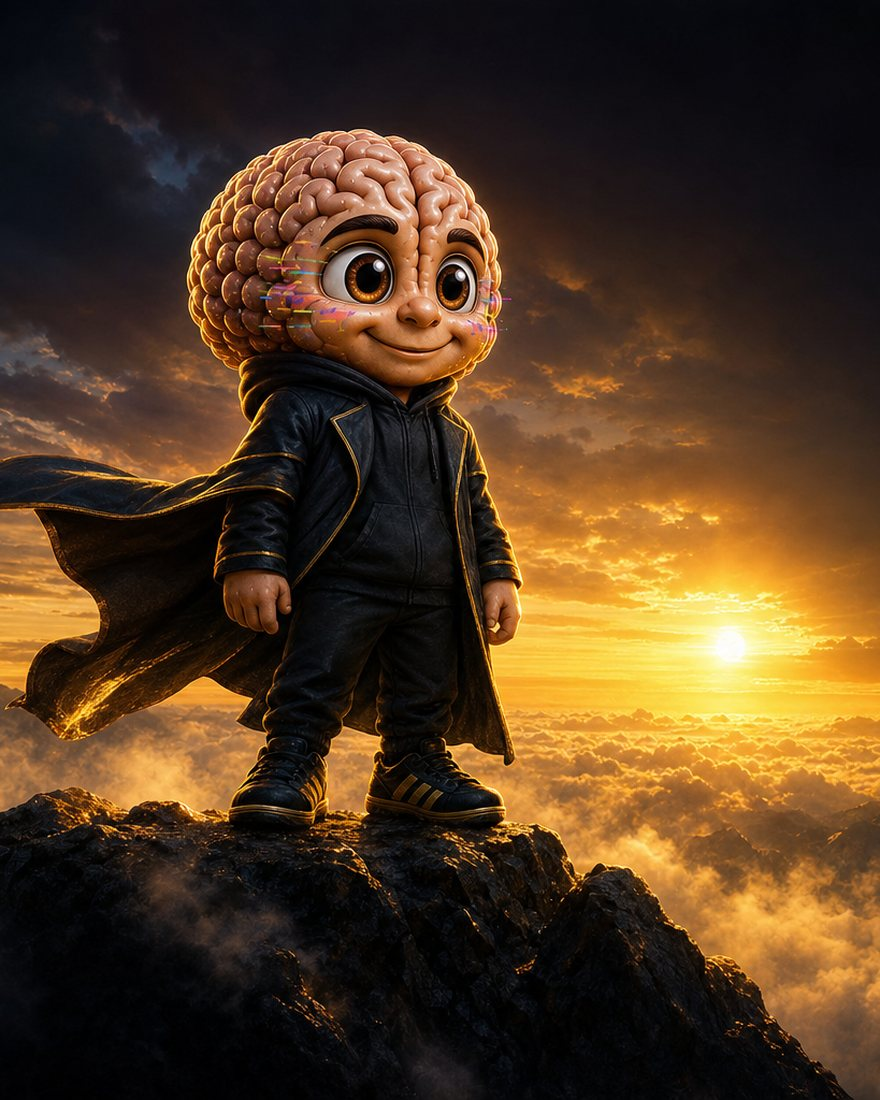
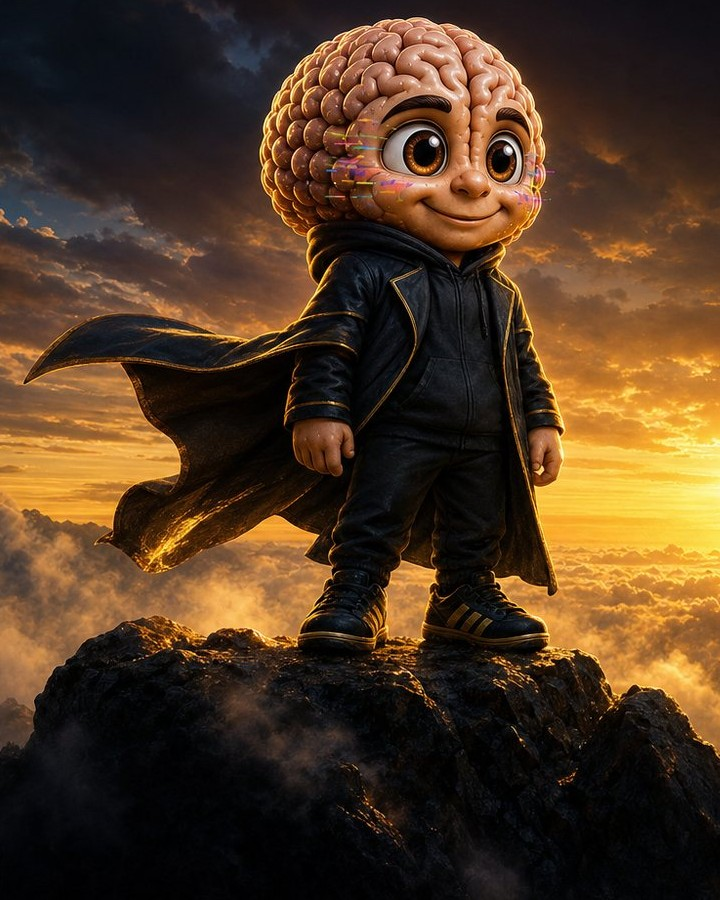
Dashboard: Bilder randlos — Handy-Querformat, linke Wash-Kante, Mantel-Crop
Die 2:1-Keyarts sind aus 3:2-Originalen verbreitert; die angesetzten Flaechen
(links ~12%, rechts 27-32%) lagen ohne Text-Scrim nackt da.

- Mobile-Breakpoints zusaetzlich fuer (orientation:landscape) and (max-height:520px)
  — ein iPhone Pro Max ist quer 932px breit und lief bisher im Desktop-Layout
- eigene Querformat-Zuschnitte hero-v3l / band-*-l (1536x768, direkt aus
  assets-src/hero, ohne Wash) via <source media=...> plus transform:none
- Desktop/Tablet: hero img scale(1.136), band img scale(1.12), origin rechts —
  schneidet die linke Wash weg, Figuren bleiben komplett
- hero-v3m neu aus hero-summit.png (720x900): Mantel war links angeschnitten
- linke Kantenverlaeufe .hero::after/.band::after von 9/27% auf 5%
- untere Ausblendung mobil auf 66%/97%

diff --git a/dashboard/index.html b/dashboard/index.html
@@ -192,6 +192,15 @@
        ultrawide screens. */
     .hero picture{display:block;width:100%}
     .hero img{width:100%;height:auto;display:block}
+    /* The wide keyart carries ~12% of flat, textureless wash on its left edge —
+       on screen that reads as a black border instead of a full-bleed image.
+       Zoom from the right edge so that strip is clipped away; the ~7% that goes
+       over top and bottom is empty sky and the rock base that the bottom fade
+       swallows anyway. Only for the wide art — the -m crop below 641px has no
+       wash and would lose the cape. */
+    @media (min-width:641px){
+      .hero img{transform:scale(1.136);transform-origin:100% 50%}
+    }
     /* Headline sits in the right third — the art is composed with the figure
        left and that side deliberately calm. The scrim guarantees contrast even
        if a future hero image is brighter there. */
@@ -232,7 +241,10 @@
        2:1 crop is only ~195px tall on a phone, so overlaid text spilled out of
        the image and collided with the stat bar. A portrait crop is served
        instead and the overlay is taken out of absolute positioning. */
-    @media (max-width:900px){
+    /* Phone in landscape: the viewport is wider than 900 but only ~430 tall,
+       so the desktop overlay layout kicked in and the hero/band edge fades read
+       as black bars. Short landscape viewports get the mobile treatment. */
+    @media (max-width:900px), (orientation:landscape) and (max-height:520px){
       .hero-ov{position:static;background:none;display:block}
       .hero-in{justify-content:center;padding:0 20px}
       .hero-tx{max-width:560px;text-align:center;padding:22px 0 4px;margin:0 auto}
@@ -242,7 +254,7 @@
       .hero::before{display:none}
       .hero picture{position:relative}
       .hero picture::after{content:'';position:absolute;inset:0;pointer-events:none;
-        background:linear-gradient(to bottom,rgba(12,11,12,0) 74%,var(--bg) 100%)}
+        background:linear-gradient(to bottom,rgba(12,11,12,0) 66%,var(--bg) 97%)}
     }
     @media (max-width:480px){
       .hero-h{font-size:1.6rem}
@@ -251,7 +263,7 @@
     }
     /* Fades all four edges into the page so the widened canvas has no seam. */
     .hero::after{content:'';position:absolute;inset:0;pointer-events:none;background:
-      linear-gradient(to right,var(--bg) 0%,var(--bg) 9%,rgba(10,8,20,0) 27%),
+      linear-gradient(to right,var(--bg) 0%,rgba(10,8,20,0) 5%),
       linear-gradient(to left,var(--bg) 0%,rgba(10,8,20,0) 17%),
       linear-gradient(to bottom,rgba(10,8,20,0) 72%,var(--bg) 100%)}
 
@@ -557,8 +569,12 @@
     .band{position:relative;width:100%;overflow:hidden}
     .band picture{display:block;width:100%}
     .band img{width:100%;height:auto;display:block}
+    /* Same left-edge wash as the hero art — clipped the same way. */
+    @media (min-width:641px){
+      .band img{transform:scale(1.12);transform-origin:100% 50%}
+    }
     .band::after{content:'';position:absolute;inset:0;pointer-events:none;background:
-      linear-gradient(to right,var(--bg) 0%,var(--bg) 9%,rgba(10,8,20,0) 27%),
+      linear-gradient(to right,var(--bg) 0%,rgba(10,8,20,0) 5%),
       linear-gradient(to left,var(--bg) 0%,rgba(10,8,20,0) 17%),
       linear-gradient(to bottom,var(--bg) 0%,rgba(10,8,20,0) 20%,rgba(10,8,20,0) 74%,var(--bg) 100%)}
     .band-ov{position:absolute;inset:0;z-index:3;display:flex;align-items:center;
@@ -573,7 +589,7 @@
     .burn-lead{color:var(--muted);font-size:.87rem;line-height:1.75;margin-top:14px}
     /* Same reason as the hero: a 2:1 band is only ~195px tall on a phone, far
        too short to hold the heading plus lead. Copy drops below the art. */
-    @media (max-width:900px){
+    @media (max-width:900px), (orientation:landscape) and (max-height:520px){
       .band-ov{position:static;background:none;display:block}
       .band-in{justify-content:center;padding:0 20px}
       .band-tx{max-width:560px;text-align:center;padding:20px 0 4px;margin:0 auto}
@@ -583,8 +599,14 @@
       .band::after{display:none}
       .band picture{position:relative}
       .band picture::after{content:'';position:absolute;inset:0;pointer-events:none;
-        background:linear-gradient(to bottom,rgba(12,11,12,0) 72%,var(--bg) 100%)}
+        background:linear-gradient(to bottom,rgba(12,11,12,0) 66%,var(--bg) 97%)}
       .burn-lead{margin-left:auto;margin-right:auto}
+    }
+    /* Phone in landscape gets its own 2:1 crop cut straight from the source art
+       (…-l.webp). It has no widened canvas, so the zoom-crop that hides the wash
+       on the desktop files would only throw picture away here. */
+    @media (orientation:landscape) and (max-height:520px){
+      .hero img,.band img{transform:none}
     }
 
     /* ECOSYSTEM — the sub-apps, promoted out of the footer chip row */
@@ -664,7 +686,7 @@
     .lr-sm a{font-size:.68rem;padding:5px 12px;gap:5px;opacity:.85}
     .lr-sm img{width:15px;height:15px}
 
-    @media(max-width:900px){
+    @media (max-width:900px), (orientation:landscape) and (max-height:520px){
       .sg{grid-template-columns:repeat(3,1fr)}
       .tg4,.fl{grid-template-columns:repeat(2,1fr)}
       .fa{display:none}
@@ -753,8 +775,12 @@
 
   <section class="hero">
     <picture>
-      <source media="(max-width:640px)" srcset="hero-v3m.webp" type="image/webp">
-      <source media="(max-width:640px)" srcset="hero-v3m.jpg" type="image/jpeg">
+      <!-- Handy quer: eigener 2:1-Zuschnitt aus dem Original, ohne die
+           kuenstlich verbreiterten Raender des Desktop-Bildes. -->
+      <source media="(orientation:landscape) and (max-height:520px)" srcset="hero-v3l.webp" type="image/webp">
+      <source media="(orientation:landscape) and (max-height:520px)" srcset="hero-v3l.jpg" type="image/jpeg">
+      <source media="(max-width:640px)" srcset="hero-v3m.webp?v=5" type="image/webp">
+      <source media="(max-width:640px)" srcset="hero-v3m.jpg?v=5" type="image/jpeg">
       <source srcset="hero-v3.webp?v=4" type="image/webp">
       <img src="hero-v3.jpg?v=4" alt="BOBAI — Where Memes Meet Intelligence" fetchpriority="high">
     </picture>
@@ -876,6 +902,8 @@
 
   <div class="band" id="burns">
     <picture>
+      <source media="(orientation:landscape) and (max-height:520px)" srcset="band-forge-l.webp" type="image/webp">
+      <source media="(orientation:landscape) and (max-height:520px)" srcset="band-forge-l.jpg" type="image/jpeg">
       <source media="(max-width:640px)" srcset="band-forge-m.webp" type="image/webp">
       <source media="(max-width:640px)" srcset="band-forge-m.jpg" type="image/jpeg">
       <source srcset="band-forge.webp" type="image/webp">
@@ -1014,6 +1042,8 @@
 
   <div class="band" id="ecosystem">
     <picture>
+      <source media="(orientation:landscape) and (max-height:520px)" srcset="band-command-l.webp" type="image/webp">
+      <source media="(orientation:landscape) and (max-height:520px)" srcset="band-command-l.jpg" type="image/jpeg">
       <source media="(max-width:640px)" srcset="band-command-m.webp" type="image/webp">
       <source media="(max-width:640px)" srcset="band-command-m.jpg" type="image/jpeg">
       <source srcset="band-command.webp" type="image/webp">
@@ -1056,6 +1086,8 @@
 
   <div class="band">
     <picture>
+      <source media="(orientation:landscape) and (max-height:520px)" srcset="band-brainchain-l.webp" type="image/webp">
+      <source media="(orientation:landscape) and (max-height:520px)" srcset="band-brainchain-l.jpg" type="image/jpeg">
       <source media="(max-width:640px)" srcset="band-brainchain-m.webp" type="image/webp">
       <source media="(max-width:640px)" srcset="band-brainchain-m.jpg" type="image/jpeg">
       <source srcset="band-brainchain.webp" type="image/webp">
